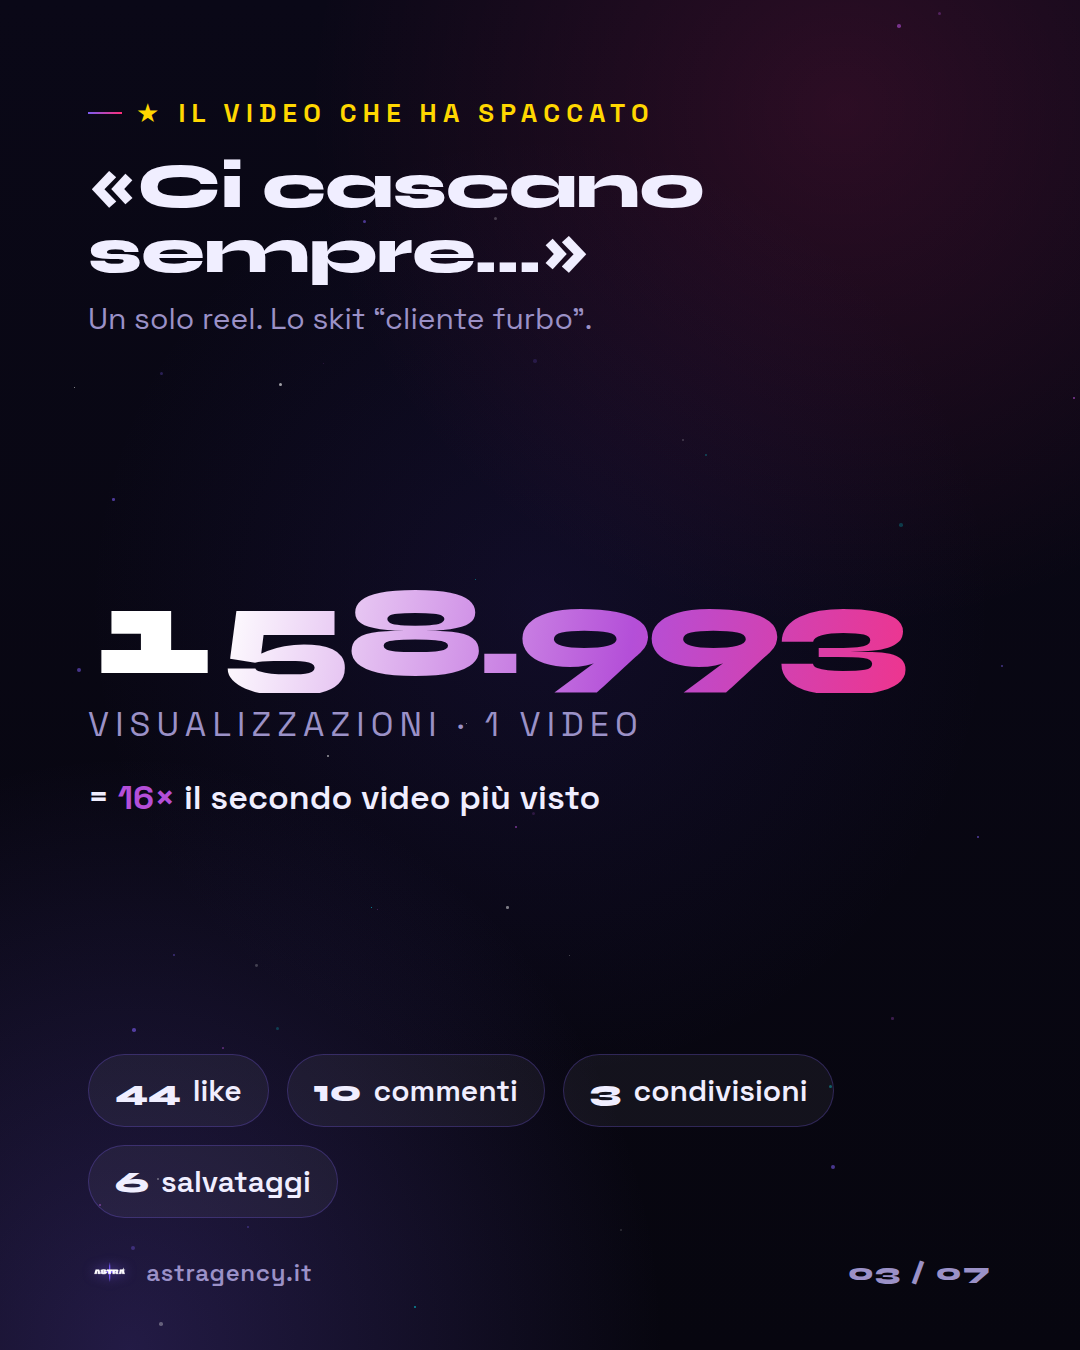
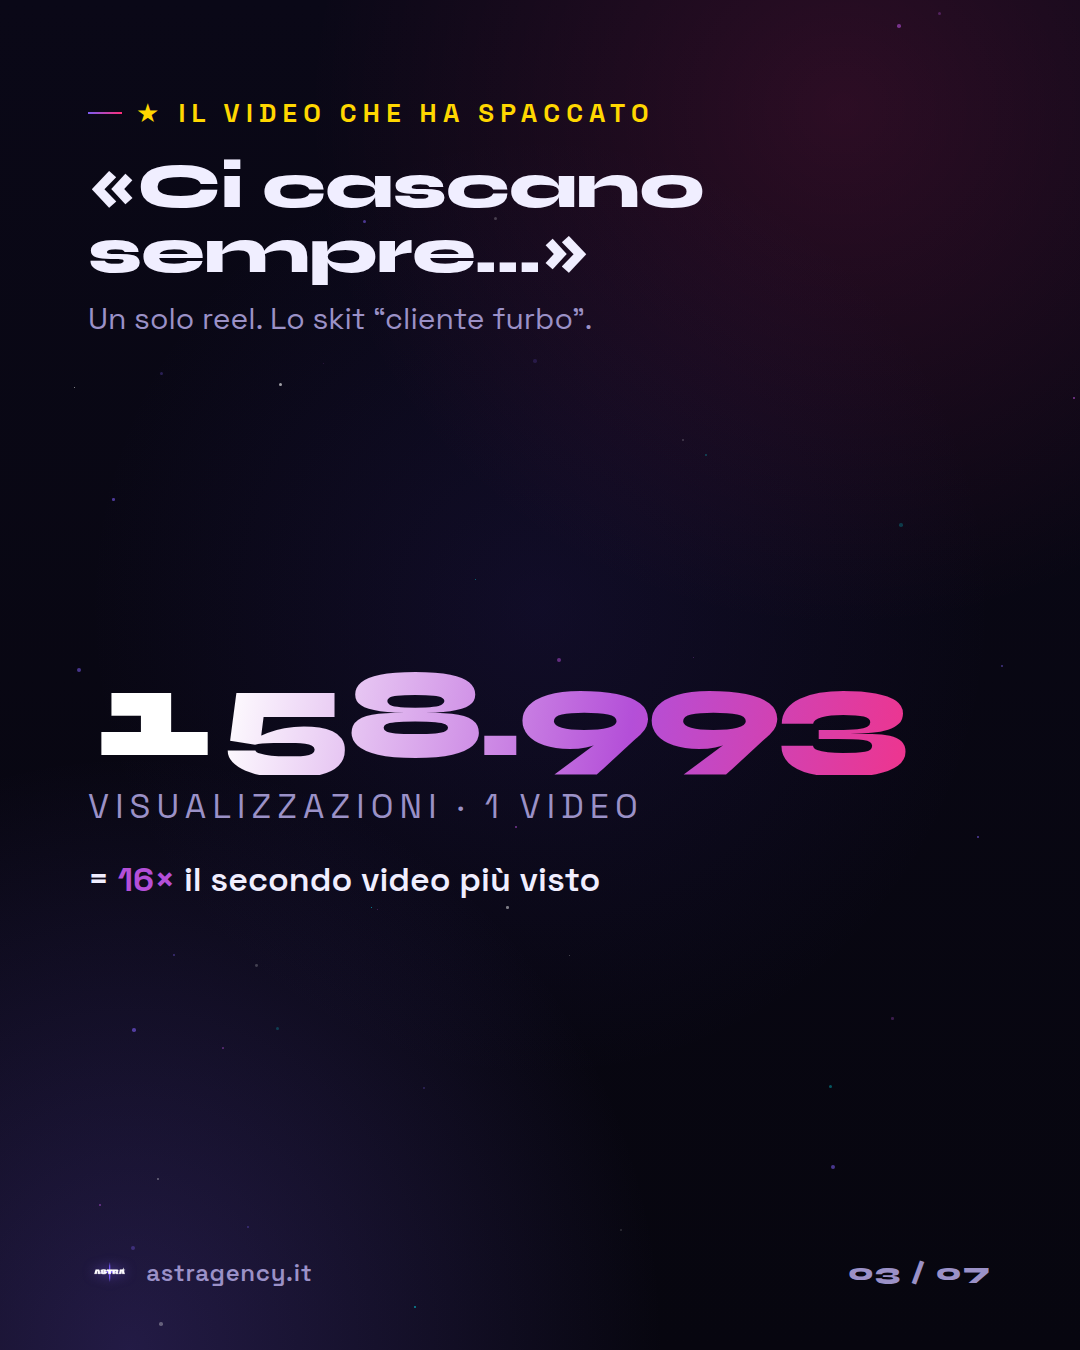
Carosello Shock: togli engagement (like/commenti/ecc), lascia solo le visualizzazioni

diff --git a/report-shock/index.html b/report-shock/index.html
@@ -97,7 +97,7 @@ E se la tua pagina fosse attiva? Scrivici in DM o su astragency.it ✦
 
 <script>
   const NUM = 7;
-  const V = '?v=6';   // cache-busting: bump ad ogni aggiornamento delle slide
+  const V = '?v=7';   // cache-busting: bump ad ogni aggiornamento delle slide
   const titoli = ['Cover','Punto di partenza','Il reel','Classifica video','Totale','Perché','CTA'];
   const grid = document.getElementById('grid');
   for (let i = 1; i <= NUM; i++) {
